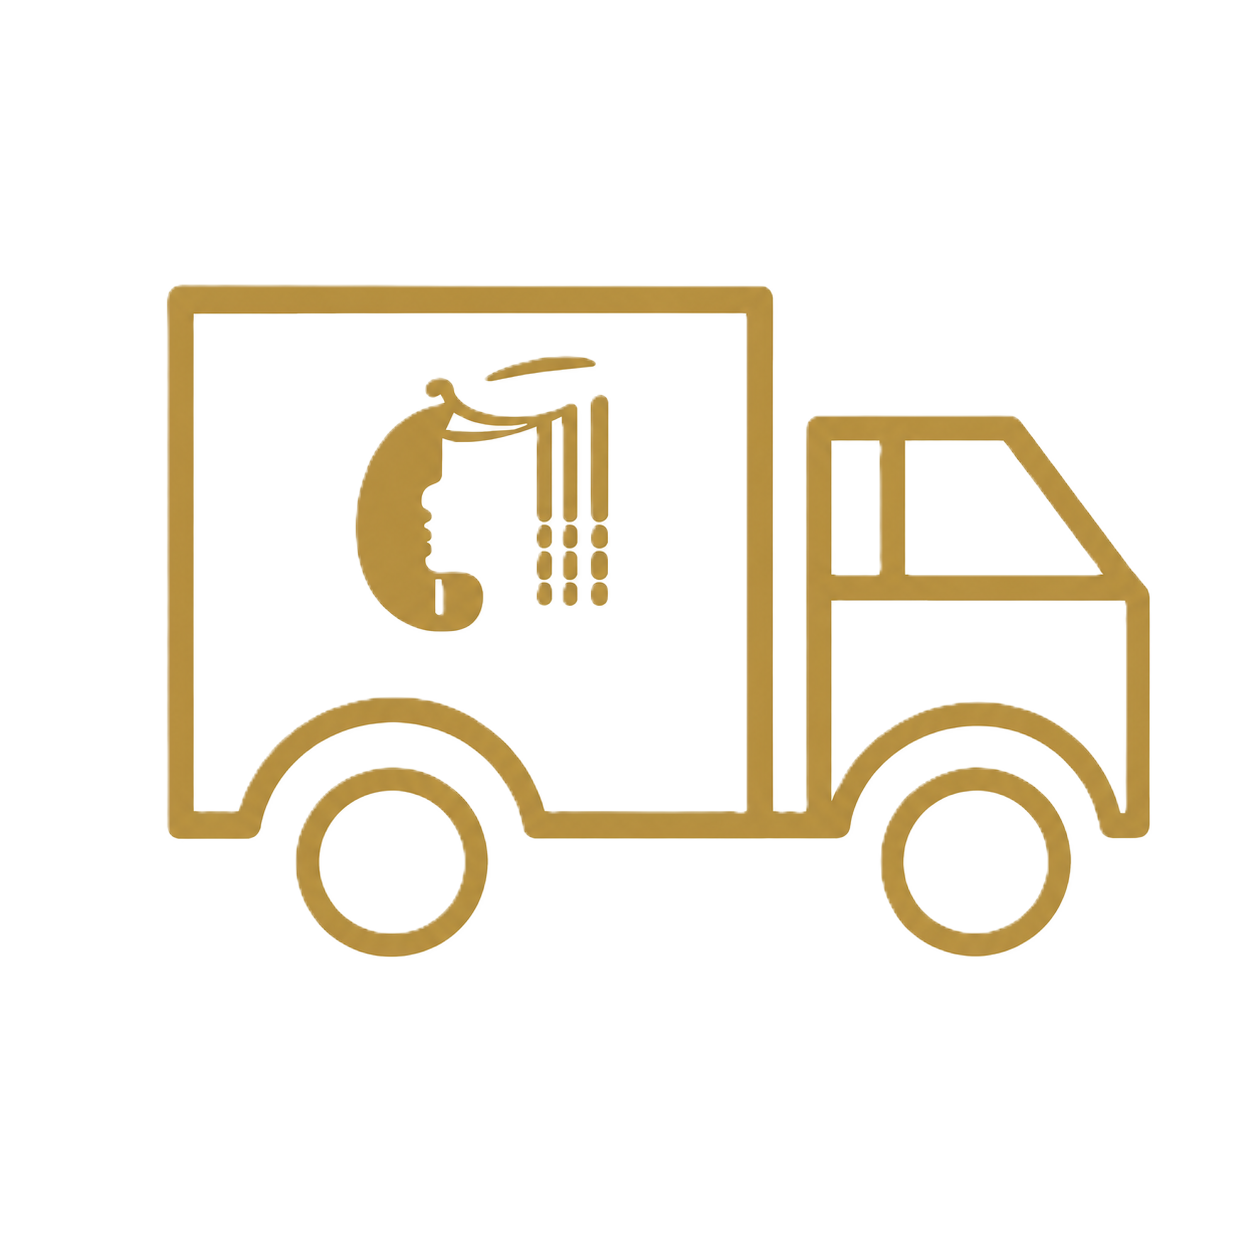
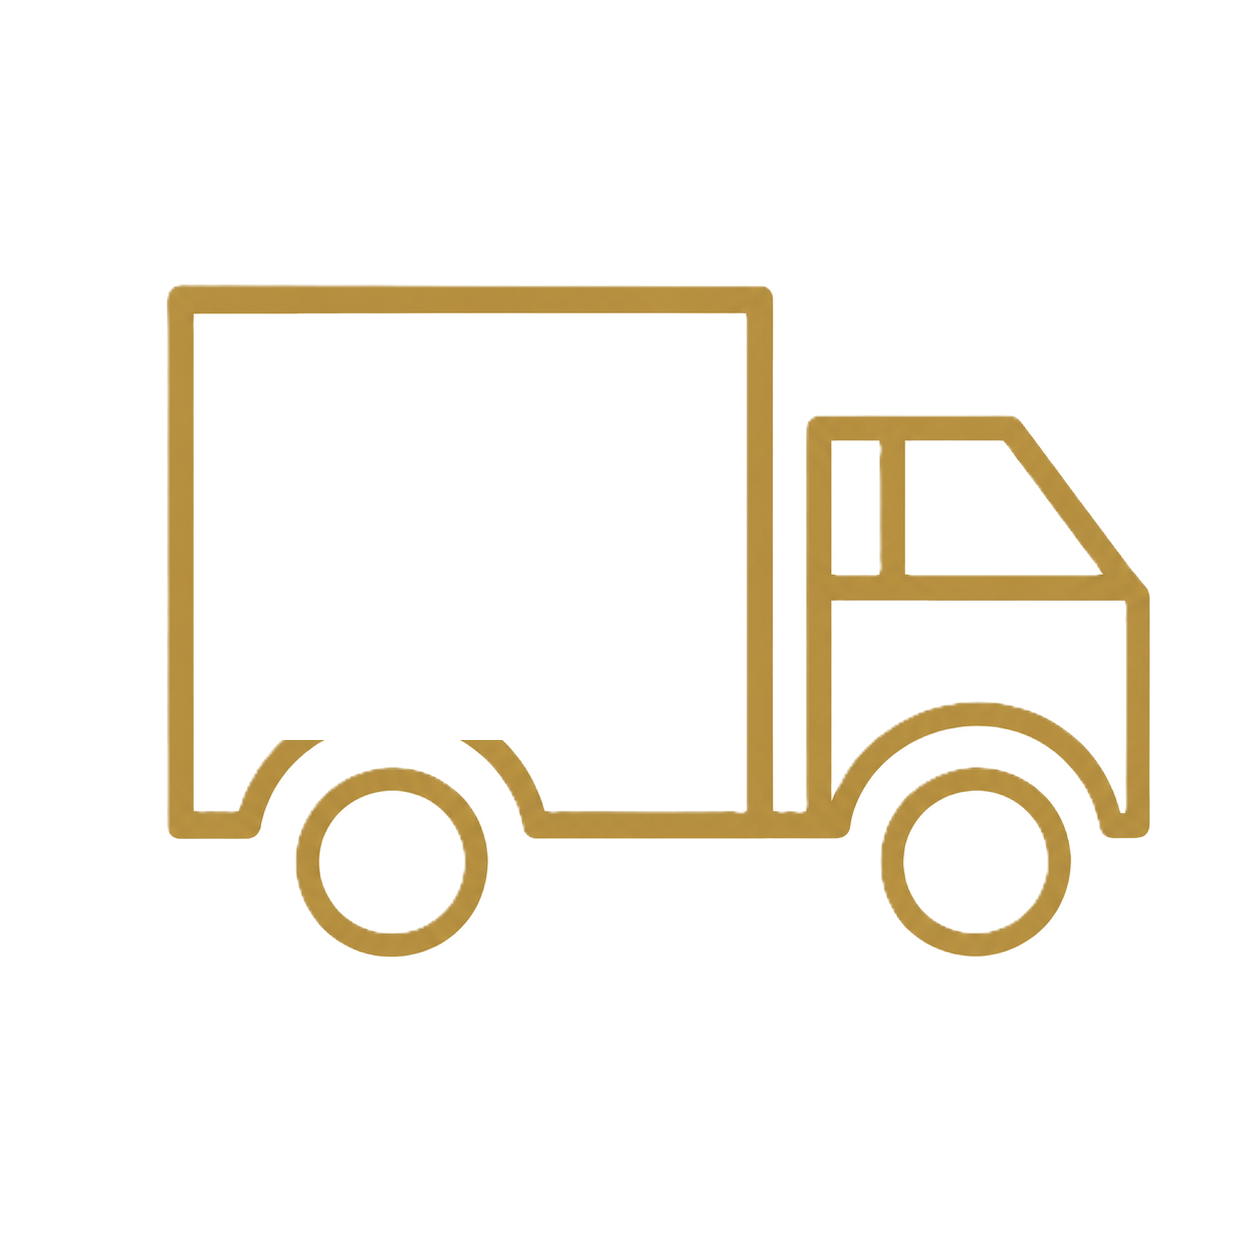
feat: add TrustBadges component and corresponding assets across all regional apps

Changed region(s): [[0.2799, 0.2799, 0.4976, 0.5287], [0.2177, 0.5287, 0.4043, 0.5909]]

diff --git a/apps/au/src/components/product/TrustBadges.tsx b/apps/au/src/components/product/TrustBadges.tsx
@@ -3,8 +3,8 @@ import Image from "next/image";
 export function TrustBadges() {
   const badges = [
     {
-      title: "Free Shipping all over UK",
-      icon: "/media/products/buudy-led-mask/images/i3.png", // Truck
+      title: "Free Shipping",
+      icon: "/media/products/buudy-led-mask/images/i3_clean.png", // Truck
     },
     {
       title: "Skin-Friendly Fabric",

diff --git a/apps/ca/src/components/product/TrustBadges.tsx b/apps/ca/src/components/product/TrustBadges.tsx
@@ -3,8 +3,8 @@ import Image from "next/image";
 export function TrustBadges() {
   const badges = [
     {
-      title: "Free Shipping all over UK",
-      icon: "/media/products/buudy-led-mask/images/i3.png", // Truck
+      title: "Free Shipping",
+      icon: "/media/products/buudy-led-mask/images/i3_clean.png", // Truck
     },
     {
       title: "Skin-Friendly Fabric",

diff --git a/apps/uk/src/components/product/TrustBadges.tsx b/apps/uk/src/components/product/TrustBadges.tsx
@@ -3,8 +3,8 @@ import Image from "next/image";
 export function TrustBadges() {
   const badges = [
     {
-      title: "Free Shipping all over UK",
-      icon: "/media/products/buudy-led-mask/images/i3.png", // Truck
+      title: "Free Shipping",
+      icon: "/media/products/buudy-led-mask/images/i3_clean.png", // Truck
     },
     {
       title: "Skin-Friendly Fabric",

diff --git a/apps/us/src/components/product/TrustBadges.tsx b/apps/us/src/components/product/TrustBadges.tsx
@@ -3,8 +3,8 @@ import Image from "next/image";
 export function TrustBadges() {
   const badges = [
     {
-      title: "Free Shipping all over UK",
-      icon: "/media/products/buudy-led-mask/images/i3.png", // Truck
+      title: "Free Shipping",
+      icon: "/media/products/buudy-led-mask/images/i3_clean.png", // Truck
     },
     {
       title: "Skin-Friendly Fabric",